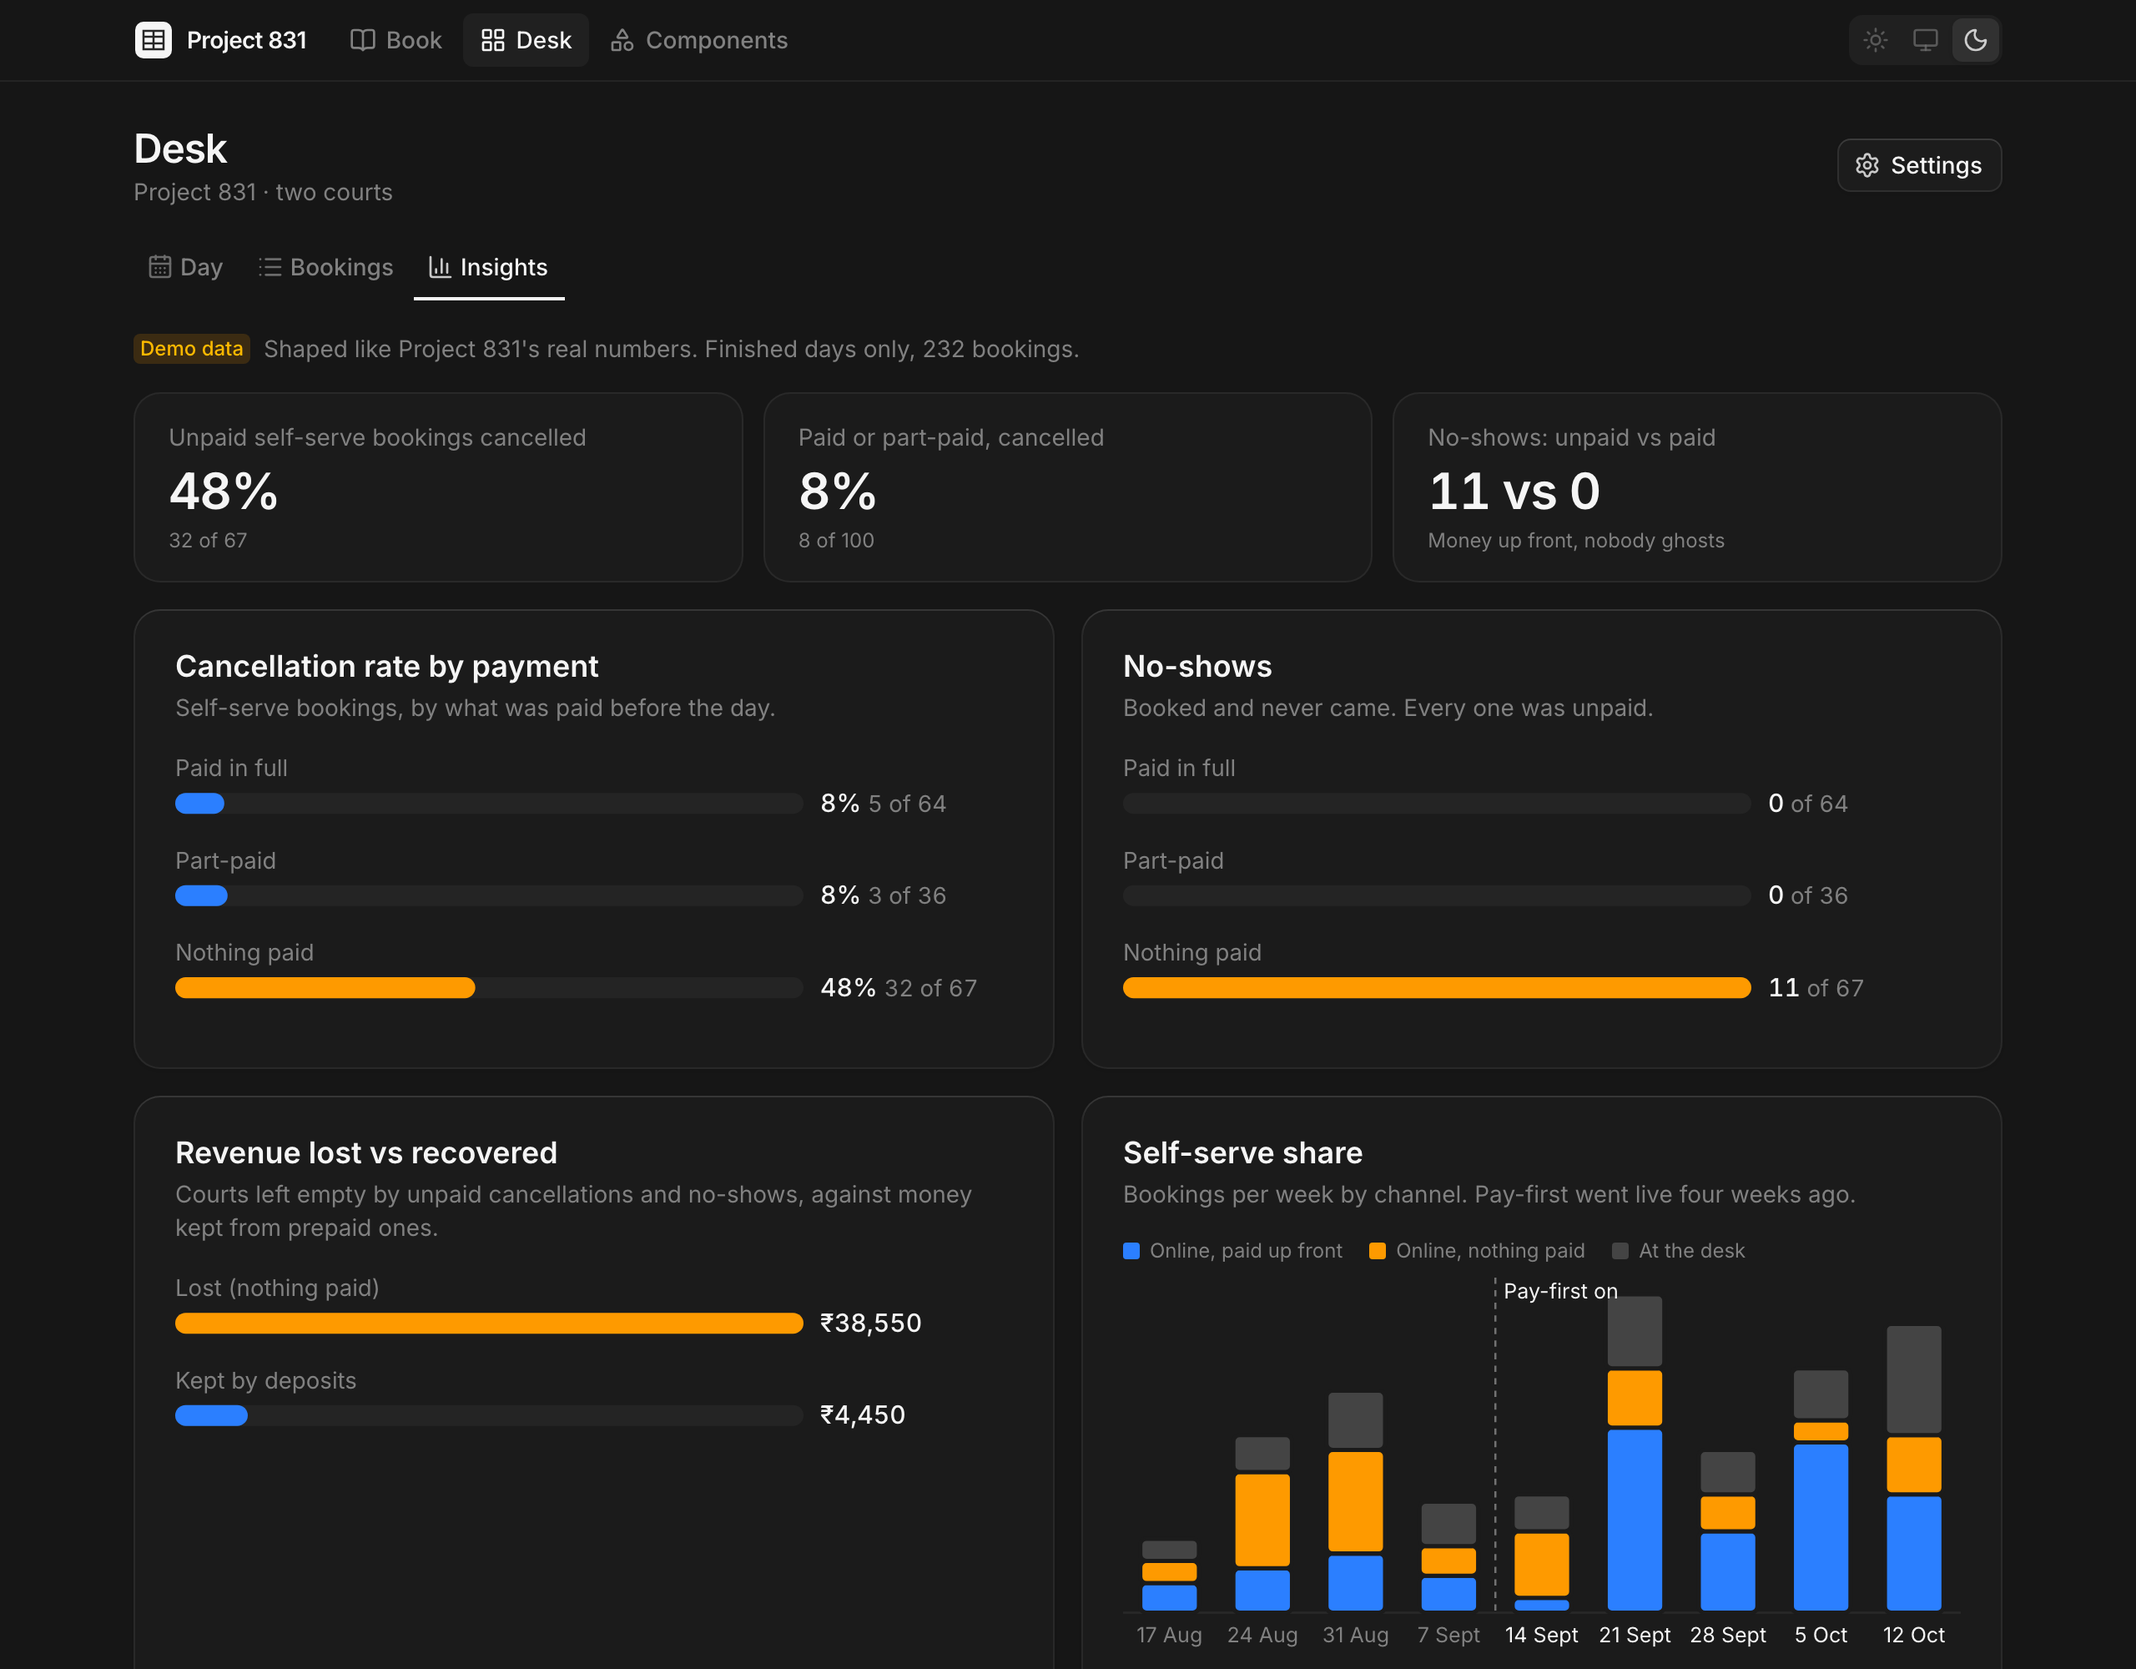
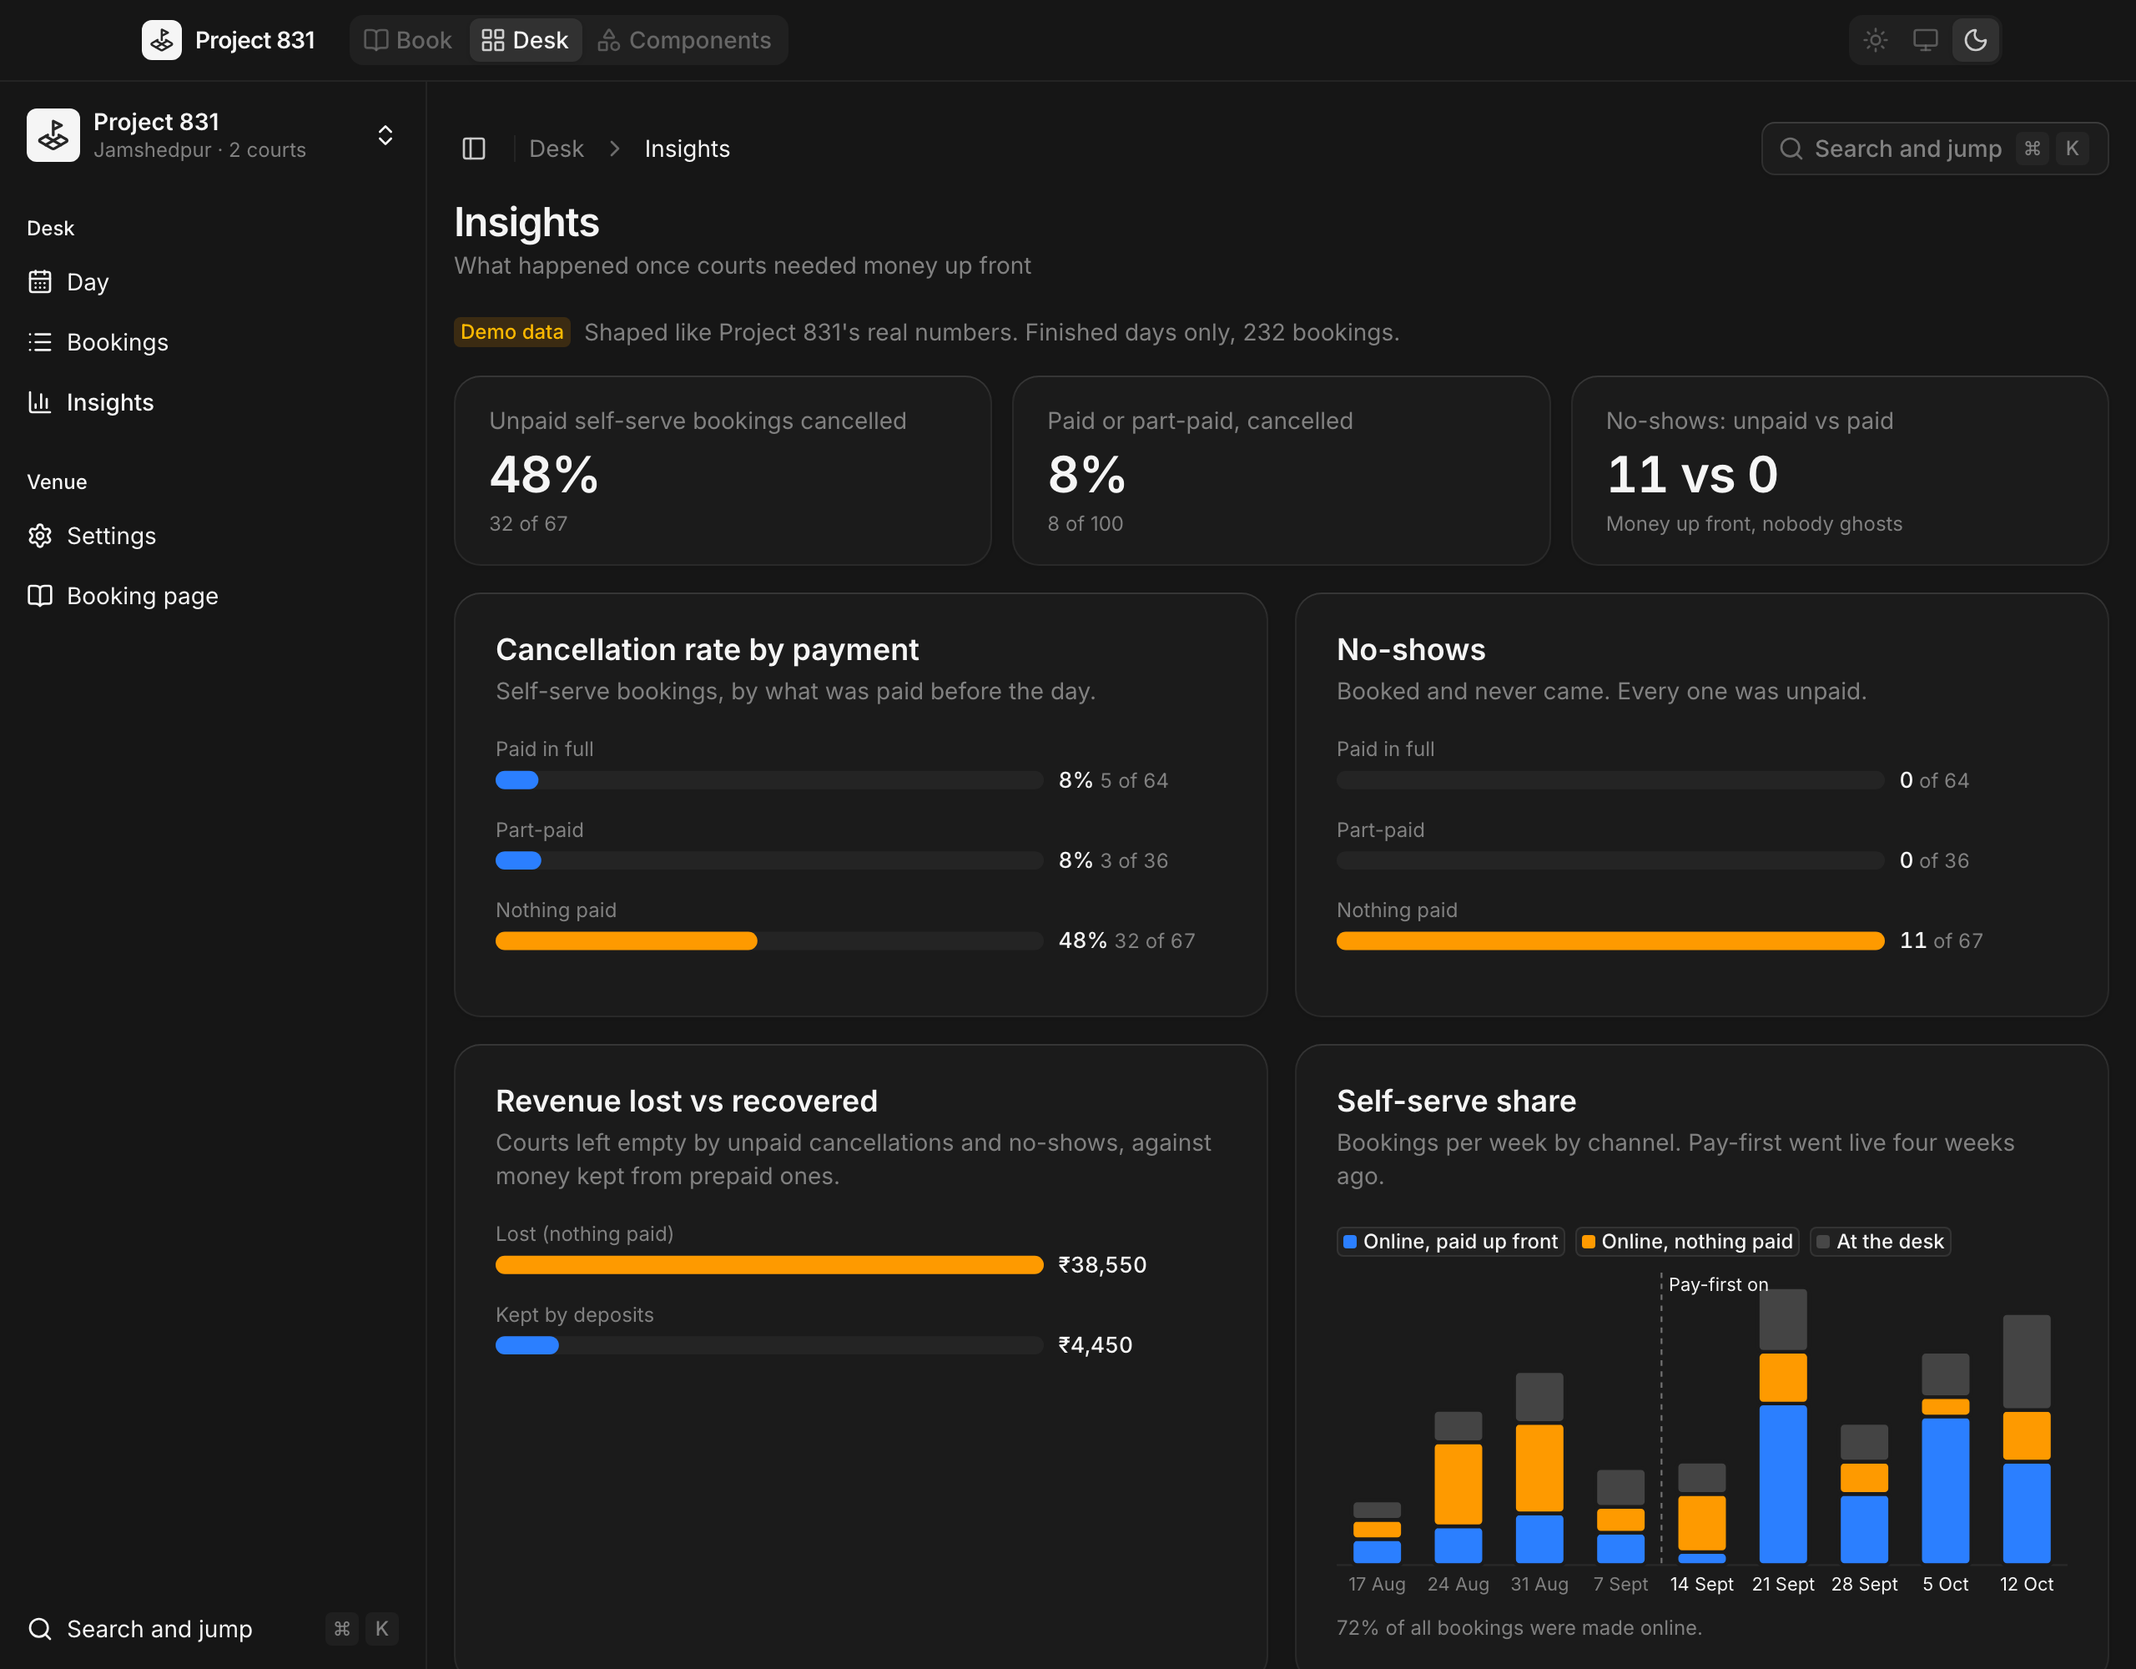
Docs: README inventory of all 55 coss components, fresh screenshots
- README lists every coss component and where the product uses it, and
  says why the two grids keep hand-built roving focus around coss Buttons.
- Screenshots are taken with reduced motion, so nothing is caught
  mid-fade, and regenerated.
- The skip link no longer takes room at the top of every page (it is
  moved off-screen until focused, instead of sr-only fighting the
  Button's own position and height).
- The stepper's check sits above the coss Button's pseudo-element.

diff --git a/src/app/app.tsx b/src/app/app.tsx
@@ -59,7 +59,7 @@ export function Routes(): React.ReactElement {
   return (
     <div className="flex min-h-dvh flex-col">
       <Button
-        className="sr-only z-50 focus:not-sr-only focus:fixed focus:start-3 focus:top-3"
+        className="fixed start-3 top-3 z-50 -translate-y-24 focus:translate-y-0"
         onClick={(event: React.MouseEvent) => {
           event.preventDefault();
           document.querySelector<HTMLElement>("main h1")?.focus();

diff --git a/src/components/compositions/stepper.tsx b/src/components/compositions/stepper.tsx
@@ -39,7 +39,7 @@ export function StepperItem({
         state === "upcoming" && "border-input text-muted-foreground",
       )}
     >
-      {state === "complete" ? <CheckIcon strokeWidth={3} /> : index + 1}
+      {state === "complete" ? <CheckIcon className="relative size-3.5 text-primary-foreground opacity-100" strokeWidth={3} /> : index + 1}
     </span>
   );
   const text = (

diff --git a/README.md b/README.md
@@ -21,10 +21,10 @@ At [Project 831](https://project831.in) in Jamshedpur, self-serve bookings with 
 
 ## What's in it
 
-- **Book** (`#/book`, phone first). Five steps with their own URLs: court, time, details, hold and pay, done. The payment step offers what the policy decides (pay at the venue or now on a weekday; 50% or full at the weekend; full for a pay-first customer), holds the court with a visible countdown, and handles a declined payment, an expired hold and a slot taken mid-payment. Done has the paid and due split, an `.ics`, a WhatsApp share and cancellation with credit or refund. A **Scenarios** popover forces each of those states in seconds.
-- **Desk** (`#/desk`, desktop and tablet first; phones get a list). The day as courts by half hours, every booking's ledger in a side sheet; record cash, mark no-show, cancel, flag pay-first, copy a payment link, each with a toast and an Undo. Plus a searchable bookings table with CSV export, and **Insights** charts drawn from the same store.
+- **Book** (`#/book`, phone first). Five steps with their own URLs: court, time (with a calendar), details (the number confirmed once with a 6-digit code; the demo shows it in a toast, the real 831 sends it on WhatsApp), hold and pay, done. The payment step offers what the policy decides (pay at the venue or now on a weekday; 50% or full at the weekend; full for a pay-first customer), holds the court with a visible countdown, and handles a declined payment, an expired hold and a slot taken mid-payment. Done has the paid and due split, an `.ics`, a WhatsApp share and cancellation with credit or refund. A **Scenarios** popover forces each of those states in seconds.
+- **Desk** (`#/desk`, desktop and tablet first; phones get a list). A sidebar for the views and a **⌘K / Ctrl+K palette** (jump to a date, find a customer or booking, new booking). The day as courts by half hours, with a date picker; every booking's ledger in a side sheet (a drawer on a phone) with a WhatsApp message box; right-click a booking for its actions; record cash, mark no-show, cancel, flag pay-first, copy a payment link, each with a toast and an Undo. Plus a bookings table with search suggestions, status and date filters, customer previews on hover and CSV export, and **Insights** charts drawn from the same store.
 - **Settings** (`#/desk/settings`). Deposit, prepay days, hold length, pay-first list, hours and prices. Save a 30% deposit and the next customer on `#/book` is asked for 30%.
-- **Components** (`#/components`). The 41 coss ui components this product uses, in their states and as the product uses them, light and dark side by side, with the app's own compositions labelled.
+- **Components** (`#/components`). All 55 coss ui components, in their states and as the product uses them, light and dark side by side, with the app's own compositions labelled.
 
 ## What I obsessed over
 
@@ -32,7 +32,7 @@ At [Project 831](https://project831.in) in Jamshedpur, self-serve bookings with 
 - **Money is integer paise.** Splits put the rounding on one side, so ₹700.01 at 33% still adds back to the paisa; paid and due are derived from the ledger, never stored.
 - **A hold is real.** It blocks the slot for everyone, counts down in a meter that announces milestones rather than every second, and releases itself the moment it expires, or when you walk back past "Pay".
 - **States are never colour alone.** Every desk block has an icon, a word and a border or texture; every chart has a table for screen readers.
-- **One tab stop per grid.** The slot grid and the desk grid both use roving focus; desk cells read "Court 2, 7:00 pm, empty, ₹800 an hour".
+- **One tab stop per grid.** The slot grid and the desk grid both use roving focus; desk cells read "Court 2, 7:00 pm, empty, ₹800 an hour". Their cells are coss Buttons inside a hand-built grid, because coss's Radio Group and Toggle Group have no Page Up/Down between periods, no geometry-aware Up/Down, and skip disabled items that must stay focusable to say why they are taken.
 - **Durations are never decimal and times keep their zone.** "1 hour 30 minutes", Asia/Kolkata everywhere, `Intl` only, no date library.
 - **Nothing is faked to look finished.** 300–600 ms of latency in the store makes every skeleton real; `?offline=1` shows the error states.
 
@@ -48,7 +48,65 @@ npx shadcn@latest add @coss/ui @coss/colors-neutral   # registry: https://coss.c
 
 and are not edited here. To check: reinstall into an empty copy of the project and diff, or `npx shadcn@latest add @coss/ui --diff`. Theme tokens in `src/styles/theme.css` are coss's neutral palette as the CLI wrote them, plus the font contract and base layer from `@coss/style`; the app's own additions there are marked. Fonts are Inter and Geist Mono from `@fontsource-variable`, the Vite equivalent of `@coss/fonts`. Dark mode is coss's `.dark` class on `<html>` (set from the OS when the theme is "system").
 
-All 55 coss primitives are installed. The product uses 41: accordion, alert, alert-dialog, avatar, badge, breadcrumb, button, card, checkbox, collapsible, combobox, dialog, empty, field, frame, input, input-group, kbd, label, menu, meter, number-field, pagination, popover, progress, radio-group, scroll-area, select, separator, sheet, skeleton, slider, spinner, switch, table, tabs, textarea, toast, toggle, toggle-group, tooltip.
+All 55 coss primitives are installed, and the product uses every one, composed the way coss's docs and particles do (`apps/ui/skills/coss`, `p-*` particles):
+
+| coss component | Where the product uses it |
+| --- | --- |
+| accordion | Done step: cancellation policy, on the day, why money up front |
+| alert | Details step (welcome back, pay first), slot taken, declined payment, slot clash in New booking, what happened to the money on Done, empty day hint |
+| alert-dialog | Cancel booking (desk and customer), Reset demo data |
+| autocomplete | Bookings search with grouped suggestions (customers, phone numbers); the engine under Command |
+| avatar | Booking panel and customer preview |
+| badge | Booking states, legend, pay-first and credit flags, Verified number, Done status, demo labels, insights legend |
+| breadcrumb | Desk header: Desk › Day / Bookings / Insights / Settings |
+| button | Every action; links render through it (`render={<Anchor … />}`); slot-grid and desk-grid cells |
+| calendar | Date picker in the day stepper (book When step, desk day) and the bookings date range |
+| card | Day stats, hero numbers, chart cards, settings sections, summary, home links, booking-summary footer, grid frame |
+| checkbox | Opening days, weekend peak, status filter, prepay days |
+| checkbox-group | Bookings status filter (in a Popover), Settings prepay days (a form value, per coss) |
+| collapsible | Payment history in the booking panel |
+| combobox | New booking customer, Settings add pay-first customer |
+| command | ⌘K / Ctrl+K desk palette |
+| composer | "Message on WhatsApp" in the booking panel (demo: toast "Message queued (demo)") |
+| context-menu | Right-click (long-press) a booking on the day grid or the phone list |
+| dialog | New booking, Record cash, Checkout |
+| drawer | Booking panel on phones; order summary on phones (Pay step) |
+| empty | Closed day, no results, hold ran out, load errors, empty court list, empty pay-first list, not found |
+| field | Every labelled control in Book, Checkout, New booking, Settings, bookings search |
+| fieldset | Details step, Settings groups (deposit, prepay days, prices, opening hours), status filter |
+| form | Details step, Checkout, New booking, Record cash, Settings |
+| frame | Bookings table and pagination, checkout amount |
+| group | Day stepper: previous / Today / date / next |
+| input | Names, UPI ID |
+| input-group | Mobile number with its +91 addon |
+| kbd | ⌘K hints, palette footer |
+| label | Number fields, switches in the Scenarios popover, radio cards |
+| menu | Bookings row actions, sidebar venue switcher |
+| meter | Hold countdown |
+| number-field | Players, deposit, prices, cash received |
+| otp-field | 6-digit WhatsApp code on the details step |
+| pagination | Bookings table |
+| popover | Date pickers, status filter, Scenarios |
+| preview-card | Hover a customer's name in Bookings: bookings, paid ahead, unpaid, no-shows, cancelled, pay-first, last and next visit |
+| progress | Checkout "Waiting for the bank…" |
+| radio-group | Court, pay mode, credit or refund, segmented controls |
+| scroll-area | Day grid's sideways scroll; inside Sidebar, Select, Command |
+| select | Court, start, duration, hold length, opening times |
+| separator | Panel and summary dividers, desk header |
+| sheet | Booking panel on a laptop |
+| sidebar | Desk navigation: views, venue switcher, ⌘K entry; icons when collapsed (⌘B), a sheet on phones |
+| skeleton | Store loading for Book and Desk, slot grid loading |
+| slider | Deposit percent |
+| spinner | Lazy-loaded desk and gallery; inside loading Buttons |
+| switch | Pay first, new-customer deposit, scenarios |
+| table | Bookings, opening hours, pay-first list, payment history, insights tables for screen readers |
+| tabs | Checkout: UPI or card |
+| textarea | Booking notes |
+| toast | Every desk action with Undo, demo code, payments, messages |
+| toggle | "Show cancelled" in the day toolbar |
+| toggle-group | Bookings quick dates (Last 7 days / Today / Next 7 days), clearable |
+| toolbar | Day actions; bookings filters and export |
+| tooltip | Empty grid cells, day-stepper buttons, time-zone hint, collapsed sidebar |
 
 Only two project settings bend around the vendored code, and neither touches a coss file: ESLint skips the coss files (they are linted upstream under different rules), and `tsconfig.json` sets `noUnusedLocals: false` because `src/lib/composer-editor.ts` has one unused type import upstream. typescript-eslint's `no-unused-vars` still checks all app code.
 
@@ -59,8 +117,10 @@ What coss does not ship is built from coss parts, outside `src/components/ui`:
 - `src/components/compositions/segmented-control.tsx`: coss Radio Group primitives with coss's `@coss/segmented-control` recipe, the way coss's segmented-control guide says to build a one-of-many choice.
 - `src/components/compositions/radio-card.tsx`: coss's card-radio pattern, a `Label` wrapping a `Radio`.
 - `src/components/compositions/stepper.tsx`: the booking flow's numbered steps.
-- `src/components/booking/`: `BookingSlotPicker`, `SlotGrid`, `DayStepper`, `DurationPicker`, `TimeZoneHint`, still exported from `src/index.ts`. The slot grid keeps its own roving-focus radio group (Page Up/Down between periods, geometry-aware Up/Down, focusable-but-disabled slots that say why), which Base UI's Radio Group has no hook for.
-- The desk grid, booking blocks, page headers and charts in `src/app`.
+- `src/components/booking/`: `BookingSlotPicker`, `SlotGrid`, `DayStepper`, `DurationPicker`, `TimeZoneHint`, still exported from `src/index.ts`. `DayStepper` is a coss Group around coss's date-picker particle (Popover + Calendar).
+- The slot grid and the desk grid keep a hand-built roving focus, because coss's Radio Group and Toggle Group have no Page Up/Down between periods, no geometry-aware Up/Down and skip disabled items that must stay focusable; every cell inside is a coss Button.
+- `src/app/anchor.tsx`: the one plain `<a>`, for coss parts that render as links (`render={<Anchor href="…" />}`) and coss's segmented navigation links.
+- The charts in `src/app/desk/insights-view.tsx` are inline SVG inside coss Cards (coss has no chart), each with a coss Table for screen readers.
 
 ## Run it
 
